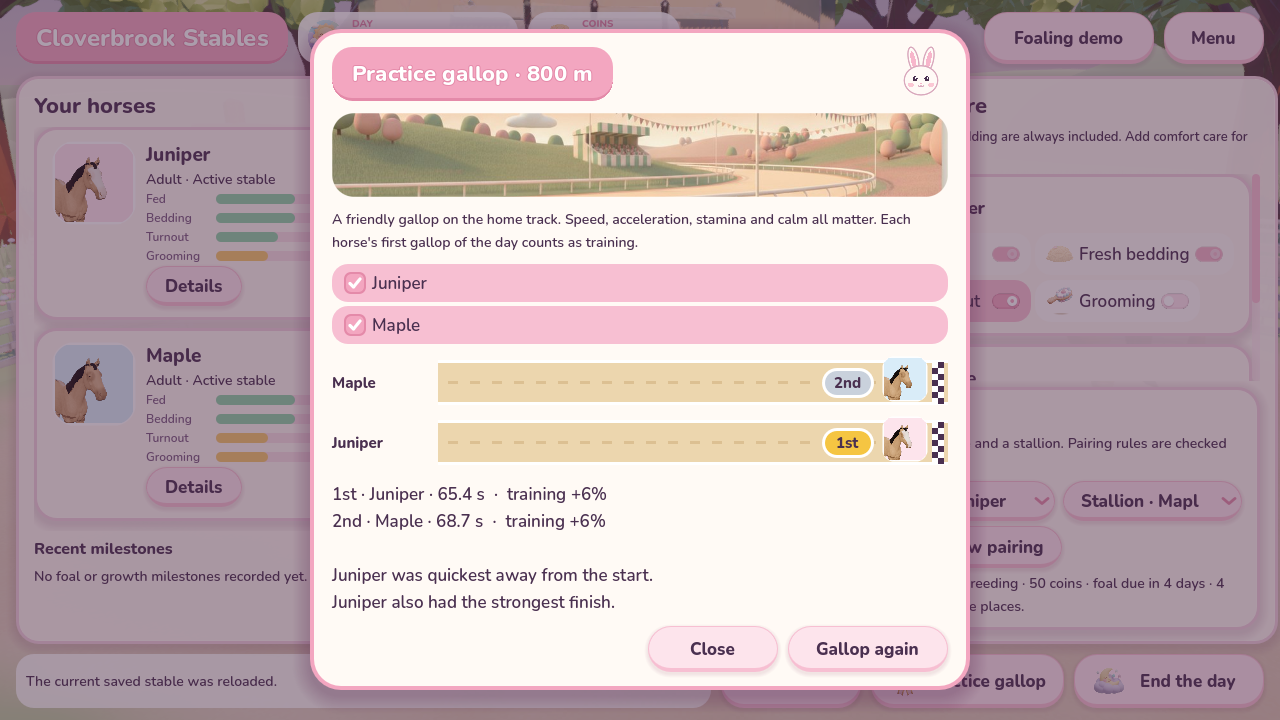
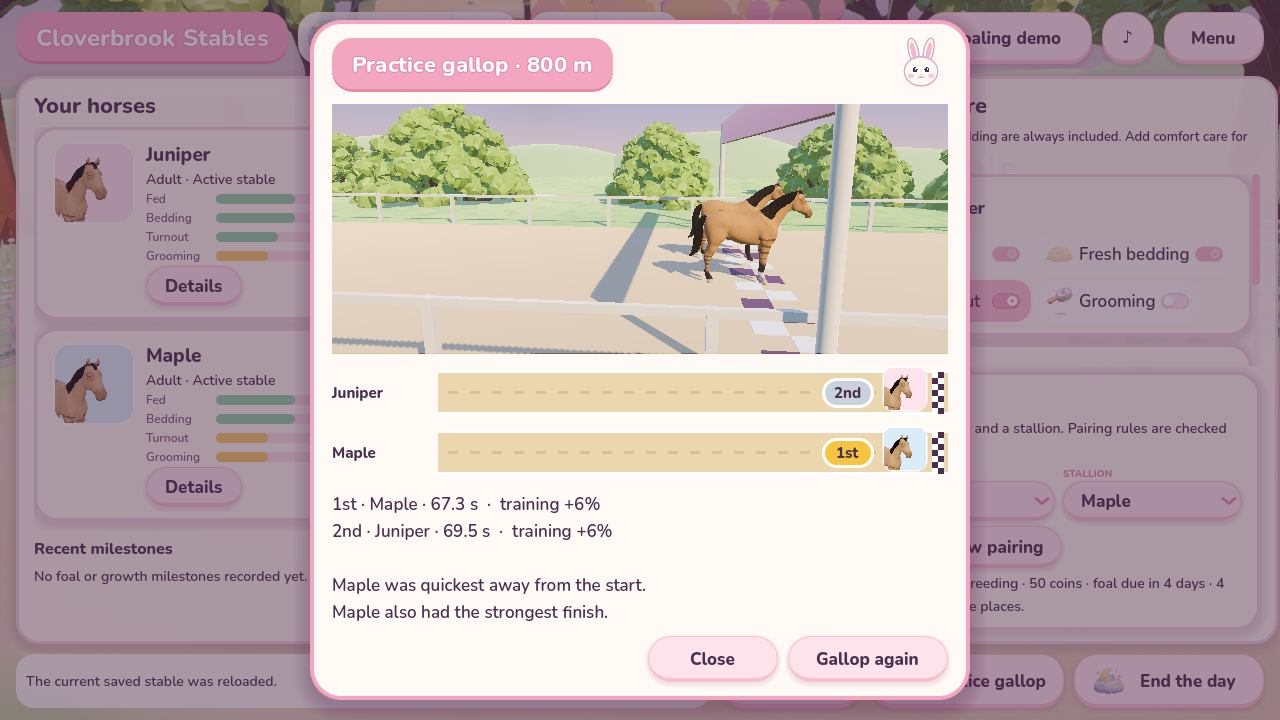
Polish breeding pickers, gallop picks and the race finish
D-012/D-015 follow-up: readable mare/stallion pickers, portraits on gallop
choices, a race camera that keeps the finish in view, clean shutdown without
leaked resources, and the Meshy tool now guards the owner's credit reserve.

Claude-Session: https://claude.ai/code/session_01N8ARS7mN4tQdViRj4KN5GB

diff --git a/game/scripts/Stable/StableDay.Breeding.cs b/game/scripts/Stable/StableDay.Breeding.cs
@@ -40,8 +40,8 @@ public partial class StableDay
         _stallionPicker = new OptionButton { SizeFlagsHorizontal = Control.SizeFlags.ExpandFill, CustomMinimumSize = new Vector2(150, 38), ClipText = true };
         _marePicker.ItemSelected += index => OnBreedingParentSelected(_marePicker, index);
         _stallionPicker.ItemSelected += index => OnBreedingParentSelected(_stallionPicker, index);
-        selectors.AddChild(_marePicker);
-        selectors.AddChild(_stallionPicker);
+        selectors.AddChild(Labelled("MARE", _marePicker));
+        selectors.AddChild(Labelled("STALLION", _stallionPicker));
         box.AddChild(selectors);
         var actions = new HBoxContainer();
         actions.AddThemeConstantOverride("separation", 8);
@@ -86,6 +86,15 @@ public partial class StableDay
     }
 
     private HBoxContainer _breedingPair = null!;
+
+    private static Control Labelled(string caption, Control field)
+    {
+        var column = new VBoxContainer { SizeFlagsHorizontal = Control.SizeFlags.ExpandFill };
+        column.AddThemeConstantOverride("separation", 0);
+        var label = CozyTheme.Title(caption, 10); label.AddThemeColorOverride("font_color", CozyTheme.AccentDeep);
+        column.AddChild(label); column.AddChild(field);
+        return column;
+    }
 
     /// <summary>Mare ♥ stallion = ? foal, as portrait cards across the top of the review.</summary>
     private void ShowBreedingPair(HorseId mareId, HorseId stallionId)
@@ -137,8 +146,8 @@ public partial class StableDay
         _refreshingBreedingPickers = true;
         _marePicker.Clear();
         _stallionPicker.Clear();
-        foreach (var mare in mares) _marePicker.AddItem("Mare · " + mare.Name, _marePicker.ItemCount);
-        foreach (var stallion in stallions) _stallionPicker.AddItem("Stallion · " + stallion.Name, _stallionPicker.ItemCount);
+        foreach (var mare in mares) _marePicker.AddItem(mare.Name, _marePicker.ItemCount);
+        foreach (var stallion in stallions) _stallionPicker.AddItem(stallion.Name, _stallionPicker.ItemCount);
         _selectedMareId = SelectId(_marePicker, mares.Select(h => h.HorseId).ToArray(), _selectedMareId);
         _selectedStallionId = SelectId(_stallionPicker, stallions.Select(h => h.HorseId).ToArray(), _selectedStallionId);
         _refreshingBreedingPickers = false;

diff --git a/game/scripts/Stable/StableDay.Practice.cs b/game/scripts/Stable/StableDay.Practice.cs
@@ -67,6 +67,13 @@ public partial class StableDay
             var horse = _state.Horses.Single(h => h.HorseId.Equals(entry.HorseId));
             var note = !entry.Eligible ? $" · {entry.BlockReason}" : PracticeTraining.TrainedToday(horse, _state.Header.CalendarDay) ? " · trained today" : "";
             var choice = new CheckBox { Text = entry.Name + note, Disabled = !entry.Eligible, ButtonPressed = entry.Eligible && eligible < PracticeGallop.MaxEntrants };
+            // The horse's own portrait beside its name, once rendered.
+            if (DescriptorFor(horse) is { } look)
+            {
+                if (_portraits.TryGetCached(look, out var ready) && ready != null) choice.Icon = ready;
+                else _ = SetIconAsync(choice, look);
+                choice.AddThemeConstantOverride("icon_max_width", 36);
+            }
             if (entry.Eligible) { eligible++; _practiceChoices[entry.HorseId] = choice; }
             _practicePicks.AddChild(choice);
         }
@@ -177,6 +184,12 @@ public partial class StableDay
         if (_practiceResult == null) return;
         _practiceElapsedMs = (double)(_practiceResult.Frames.Count - 1) * _practiceResult.FrameIntervalMilliseconds;
         AdvancePracticePlayback();
+    }
+
+    private async Task SetIconAsync(Button button, Visual.VisualDescriptor look)
+    {
+        var texture = await _portraits.RenderAsync(look);
+        if (IsInstanceValid(button) && texture != null) button.Icon = texture;
     }
 
     private static string Ordinal(int place) => place switch { 1 => "1st", 2 => "2nd", 3 => "3rd", _ => place + "th" };

diff --git a/tools/meshy/meshy.py b/tools/meshy/meshy.py
@@ -27,8 +27,9 @@ API = "https://api.meshy.ai/openapi"
 ROOT = pathlib.Path(__file__).resolve().parents[2]
 LEDGER = ROOT / "art/scenery/meshy/ledger.json"
 OUT = ROOT / "game/assets/scenery"
-BUDGET = 500  # D-012: 300, raised by the owner after the 150 check-in
-CHECKPOINT = 500  # owner authorised the full raised budget
+BUDGET = 1000  # D-012: 300 -> ~500; then "use credits as needed, keep ~350" (owner, 2026-10-13)
+CHECKPOINT = 1000  # no further check-in; MIN_BALANCE is the real limit
+MIN_BALANCE = 350  # owner: always keep about 350 credits in the account
 DECISION = "D-012"
 
 
@@ -91,6 +92,8 @@ def download(url, path):
 
 def generate(args):
     ledger = load_ledger()
+    if balance() - 40 < MIN_BALANCE:
+        sys.exit(f"Account balance would fall below the owner's {MIN_BALANCE}-credit reserve.")
     spent = sum(e.get("chargedCredits", 0) for e in ledger["entries"])
     if spent >= BUDGET:
         sys.exit(f"Budget exhausted: {spent}/{BUDGET} credits spent under {DECISION}.")
@@ -136,6 +139,8 @@ def generate(args):
 
 
 def guard(ledger, args):
+    if balance() - 40 < MIN_BALANCE:
+        sys.exit(f"Account balance would fall below the owner's {MIN_BALANCE}-credit reserve.")
     spent = sum(e.get("chargedCredits", 0) for e in ledger["entries"])
     if spent >= BUDGET:
         sys.exit(f"Budget exhausted: {spent}/{BUDGET} credits spent under {DECISION}.")

diff --git a/game/scripts/Stable/RaceView.cs b/game/scripts/Stable/RaceView.cs
@@ -61,7 +61,9 @@ public partial class RaceView : SubViewport
         }
         float lead = progress.Count == 0 ? 0 : progress.Max() / 1000f * TrackLength;
         float k = 1f - Mathf.Exp(-4f * (float)delta);
-        _cameraX = Mathf.Abs(lead - 1.5f - _cameraX) > 12f ? lead - 1.5f : Mathf.Lerp(_cameraX, lead - 1.5f, k);
+        // Follow the leader, but stop short of the line so the runners gallop across it in view.
+        float goal = Mathf.Min(lead - 1.5f, TrackLength - 3.5f);
+        _cameraX = Mathf.Abs(goal - _cameraX) > 12f ? goal : Mathf.Lerp(_cameraX, goal, k);
         PlaceCamera(_cameraX, _horses.Count);
     }
 

diff --git a/game/scripts/Stable/StableDay.Hub.cs b/game/scripts/Stable/StableDay.Hub.cs
@@ -17,6 +17,14 @@ public partial class StableDay
     private HorsePortraitStudio _portraits = null!;
     private readonly Dictionary<string, VisualDescriptor?> _descriptors = new();
 
+    public override void _ExitTree()
+    {
+        // Managed wrappers (portrait icons, clips) otherwise keep engine resources alive until after
+        // the engine's shutdown leak check; collect them while the scene is closing.
+        GC.Collect();
+        GC.WaitForPendingFinalizers();
+    }
+
     private void BuildHub()
     {
         var args = OS.GetCmdlineUserArgs();

diff --git a/game/scripts/Visual/HorsePortraitStudio.cs b/game/scripts/Visual/HorsePortraitStudio.cs
@@ -46,6 +46,13 @@ public partial class HorsePortraitStudio : SubViewport
         AddChild(_camera);
     }
 
+    public override void _ExitTree()
+    {
+        // Drop cached textures so nothing outlives the scene at shutdown.
+        foreach (var texture in _cache.Values) texture?.Dispose();
+        _cache.Clear();
+    }
+
     public bool Busy => _rendering || _queue.Count > 0;
 
     public bool TryGetCached(VisualDescriptor descriptor, out ImageTexture? texture) => _cache.TryGetValue(descriptor.CacheKey, out texture);

diff --git a/STATUS.md b/STATUS.md
@@ -47,7 +47,8 @@ Goal: stop the stable looking like a text game. (1) portraits of every horse, (2
 - [x] D-013 (owner approved "all 4"): phase-1 coats released in the matrix (game copy + validator check; stable uses the released path, preview workaround removed). Walk allowed with every body shape after the extreme-shape audit; ground speed scales with height. Smoke test updated. 213/213 tests.
 - [x] D-014: original synthesized music, ambience and SFX (`tools/audio/synth.py`, `game/assets/audio`), `GameAudio` with auto button clicks and a ♪ mute toggle; sounds on care, day end, coins, birth, sale and the race.
 - [x] D-015: Blender-authored gallop (Light + Stock, animation-only GLBs) and a 3D practice race (`RaceView`) above the lanes. Review sheet in `docs/visual/evidence/gallop-2026-10-13/`.
-- [ ] Next: polish pass (yard horses occasionally canter? event variety), web-app bush retry. Keep at least 350 Meshy credits (balance 853).
+- [x] Polish: breeding pickers show names under MARE/STALLION captions, gallop picker shows portraits, race camera stops short of the line so the finish is in view, shutdown leak warnings fixed. Meshy tool now enforces the owner's 350-credit reserve (balance 863). A topiary attempt failed at Meshy (foliage mesh repair), not charged.
+- [ ] Owner: bush/foliage via the Meshy web app's free retries (prompt in the hand-off); everything else in the D-012–D-015 list is done.
 
 ## Next steps (before D-012)
 1. **`main` branch and Mac install:** `main` is created from this branch once visual CI is green (owner-approved 2026-10-12). Every push to `main` runs `.github/workflows/macos-build.yml`, which uploads `Cloverbrook-Stables-macOS-<run>` (universal, ad-hoc signed, not notarized; see INSTALL.txt inside) to the run's Artifacts. It can also be started by hand from the Actions tab. The owner must make `main` the default branch in GitHub settings.
